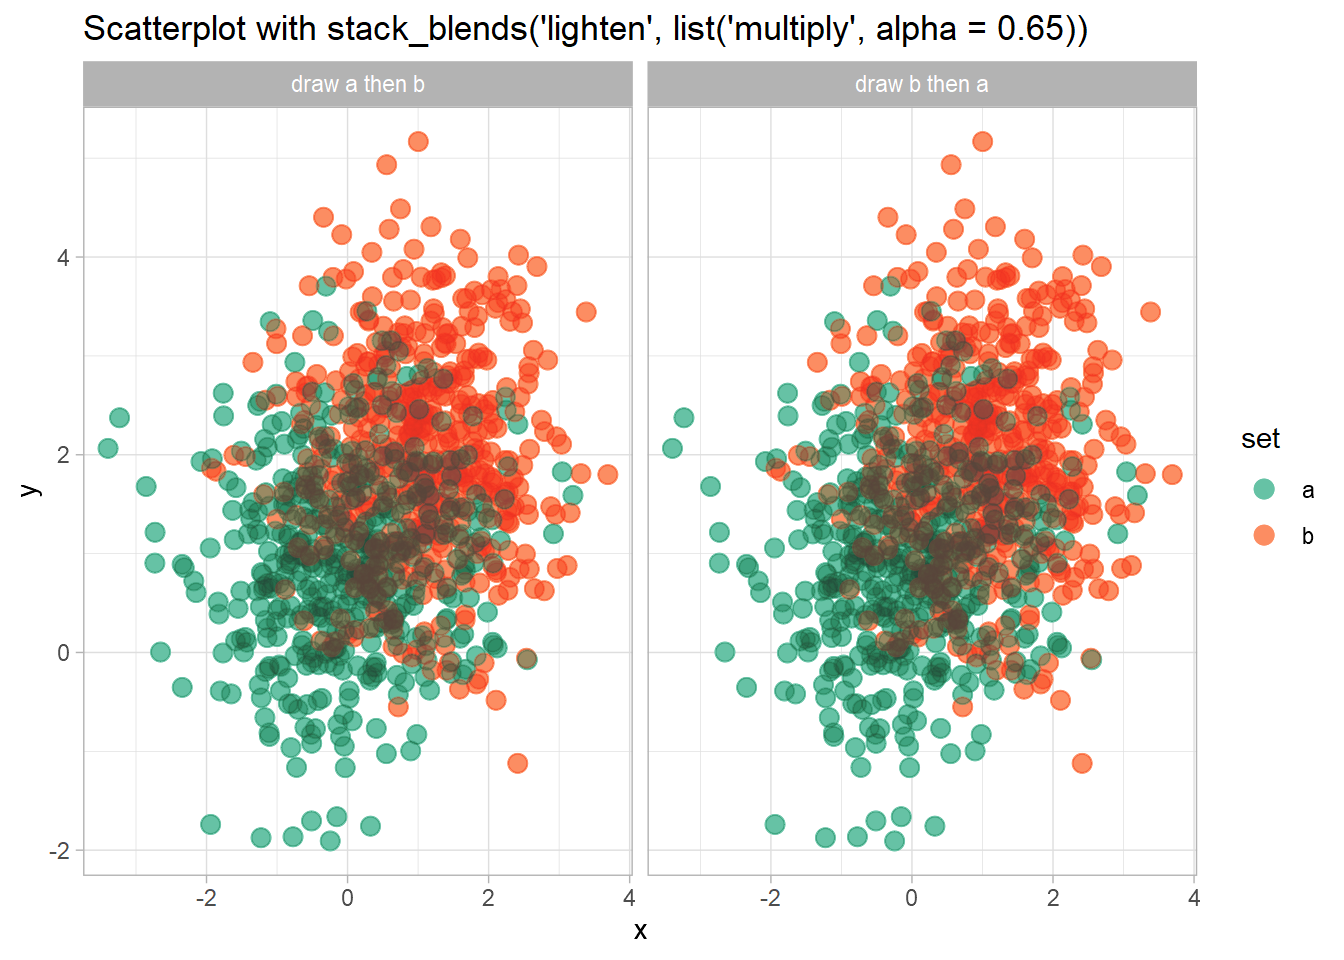
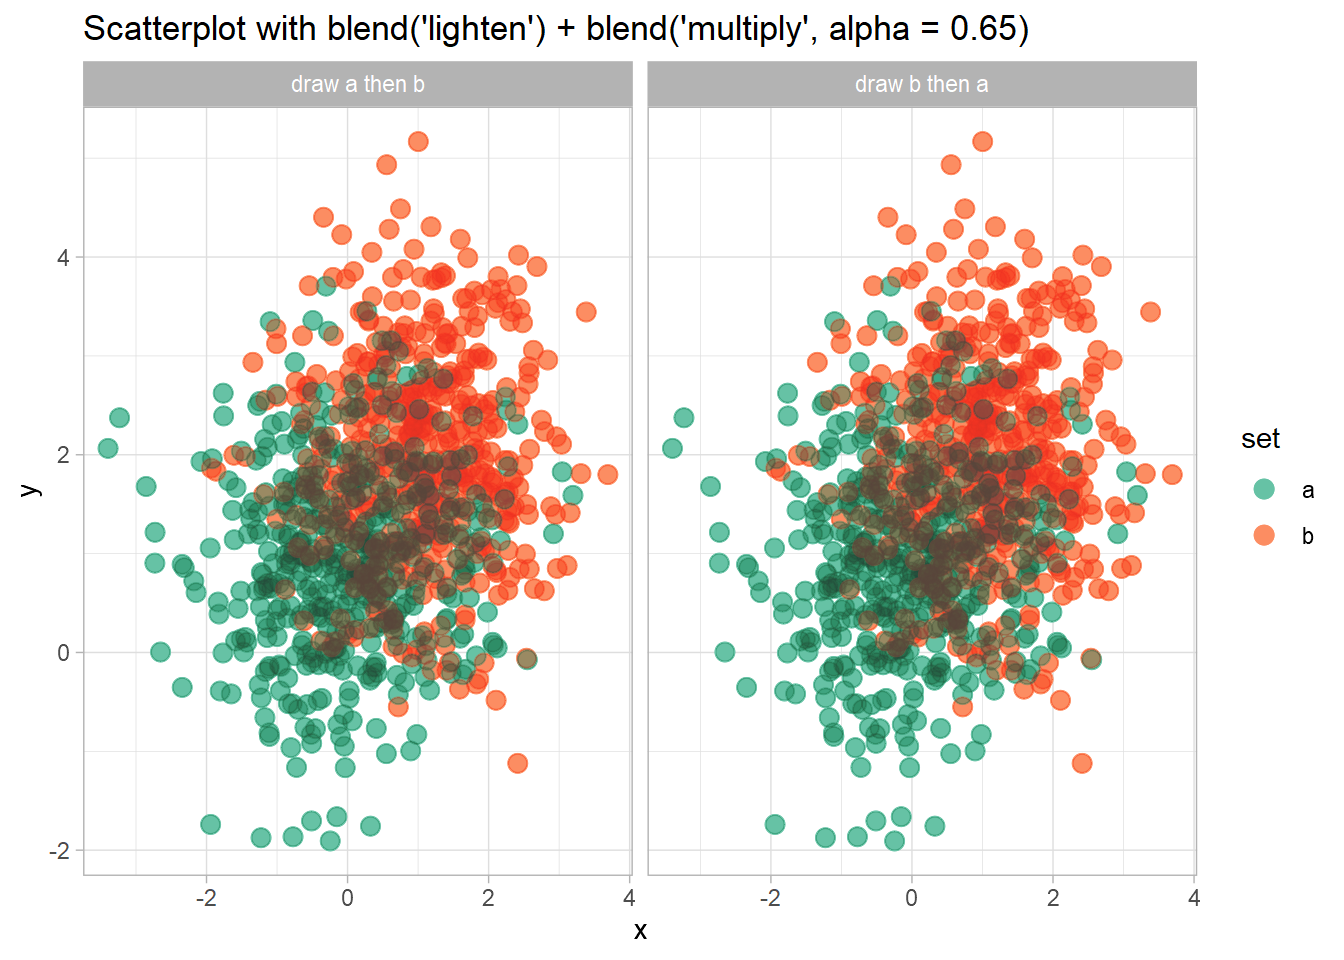
blend_group -> partition

Changed region(s): [[0.25, 0.0, 0.8125, 0.0625]]

diff --git a/README.md b/README.md
@@ -64,13 +64,20 @@ df |>
 <img src="man/figures/README-scatter_noblend-1.png" width="672" />
 
 A *commutative* blend mode, like `"multiply"` or `"darken"`, is one
-potential solution that does not depend on drawing order. We can wrap
-`geom_point()` in a call to `blend()` to achieve this, there are
-currently three approaches:
+potential solution that does not depend on drawing order. We can apply a
+`blend()` operation to geom_point()\` to achieve this. There three ways
+to do this:
 
 -   `blend(geom_point(...), "darken")` (normal function application)
 -   `geom_point(...) |> blend("darken")` (piping)
 -   `geom_point(...) * blend("darken")` (algebraic operations)
+
+Function application and piping are equivalent. **In this case**, all
+three approaches are equivalent. As we will see later, the
+multiplication approach is useful when we want a shorthand for applying
+the same operation to multiple layers in a list without combining those
+layers first (in other words, multiplication of operations over layers
+is *distributive* in an algebraic sense).
 
 ``` r
 df |>
@@ -94,7 +101,7 @@ though then values can get quite dark:
 ``` r
 df |>
   ggplot(aes(x, y, color = set)) +
-  geom_point(size = 3) |> blend("multiply") +
+  geom_point(size = 3) * blend("multiply") +
   scale_color_brewer(palette = "Set2") +
   facet_grid(~ order) +
   ggtitle("Scatterplot with blend('multiply'): a little too dark")
@@ -110,8 +117,8 @@ version on top at an `alpha` of less than 1:
 ``` r
 df |>
   ggplot(aes(x, y, color = set)) +
-  geom_point(size = 3) |> blend("lighten") +
-  geom_point(size = 3) |> blend("multiply", alpha = 0.65) +
+  geom_point(size = 3) * blend("lighten") +
+  geom_point(size = 3) * blend("multiply", alpha = 0.65) +
   scale_color_brewer(palette = "Set2") +
   facet_grid(~ order) +
   ggtitle("Scatterplot with blend('lighten') and blend('multiply', alpha = 0.65)")
@@ -122,20 +129,39 @@ df |>
 Now it’s a little easier to see both overlap and density, and the output
 remains independent of draw order.
 
-Since this pattern may be useful in general, the `stack_blends()`
-function implements it: you pass it a layer and a sequence of lists of
-arguments for `blend()`; `stack_blends()` duplicates the layer, applying
-`blend()` with the provided arguments to each duplicated layer
-separately, then stacks them together. Thus the previous example can be
-written like so:
+It is a little verbose to need to copy out a layer multiple times, as
+in:
+
+``` r
+geom_point(size = 3) * blend("lighten") +
+geom_point(size = 3) * blend("multiply", alpha = 0.65)
+```
+
+Operations and layers in *ggblend* act as a small algebra. Operations
+and sums of operations can be multiplied by layers and lists of layers,
+and those operations are distributed over the layers (This is where `*`
+and `|>` differ: `|>` does not distribute operations like `blend()` over
+layers, which is useful if you want to use a blend to combine multiple
+layers together, rather than applying that blend to each layer
+individually).
+
+For example, we can “factor out” the `geom_point(size = 3)` layer from
+the above expression, yielding this:
+
+``` r
+geom_point(size = 3) * (blend("lighten") + blend("multiply", alpha = 0.65))
+```
+
+Both expressions are equivalent. Thus we can rewrite the previous
+example like so:
 
 ``` r
 df |>
   ggplot(aes(x, y, color = set)) +
-  geom_point(size = 3) |> stack_blends("lighten", blend("multiply", alpha = 0.65)) +
+  geom_point(size = 3) * (blend("lighten") + blend("multiply", alpha = 0.65)) +
   scale_color_brewer(palette = "Set2") +
   facet_grid(~ order) +
-  ggtitle("Scatterplot with stack_blends('lighten', list('multiply', alpha = 0.65))")
+  ggtitle("Scatterplot with blend('lighten') + blend('multiply', alpha = 0.65)")
 ```
 
 <img src="man/figures/README-scatter_lighten_multiply_stacked-1.png" width="672" />
@@ -149,7 +175,39 @@ We can also blend geometries together by passing a list of geometries to
 df |>
   ggplot(aes(x, y, color = set)) +
   list(
-    geom_point(size = 3) |> stack_blends("lighten", blend("multiply", alpha = 0.65)),
+    geom_point(size = 3) * (blend("lighten") + blend("multiply", alpha = 0.65)),
+    geom_vline(xintercept = 0, color = "gray75", size = 1.5),
+    geom_hline(yintercept = 0, color = "gray75", size = 1.5)
+  ) |> blend("hard.light") +
+  scale_color_brewer(palette = "Set2") +
+  facet_grid(~ order) +
+  labs(title = "Blending multiple geometries together")
+```
+
+<img src="man/figures/README-scatter_blend_geom_incorrect-1.png" width="672" />
+
+Whoops!! If you look closely, the blending of the `geom_point()` layers
+appears to have changed. Recall that this expression:
+
+``` r
+geom_point(size = 3) * (blend("lighten") + blend("multiply", alpha = 0.65))
+```
+
+Is equivalent to specifying two separate layers, one with
+`blend("lighten")` and the other with
+`blend("multiply", alpha = 0.65))`. Thus, when you apply
+`|> blend("hard.light")` to the `list()` of layers, it will use a hard
+light blend mode to blend these two layers together, when previously
+they would be blended using the normal (or `"over"`) blend mode.
+
+We can gain back the original appearance by blending these two layers
+together with `|> blend()` prior to applying the hard light blend:
+
+``` r
+df |>
+  ggplot(aes(x, y, color = set)) +
+  list(
+    geom_point(size = 3) * (blend("lighten") + blend("multiply", alpha = 0.65)) |> blend(),
     geom_vline(xintercept = 0, color = "gray75", size = 1.5),
     geom_hline(yintercept = 0, color = "gray75", size = 1.5)
   ) |> blend("hard.light") +
@@ -159,27 +217,6 @@ df |>
 ```
 
 <img src="man/figures/README-scatter_blend_geom-1.png" width="672" />
-
-## Algebraic syntax
-
-An experimental algebraic syntax for combining and applying blends
-replaces the function application `|>` with `*` and stacking blends with
-`^`. For example:
-
-``` r
-df |>
-  ggplot(aes(x, y, color = set)) +
-  list(
-    geom_point(size = 3) * blend("lighten") ^ blend("multiply", alpha = 0.65),
-    geom_vline(xintercept = 0, color = "gray75", size = 1.5),
-    geom_hline(yintercept = 0, color = "gray75", size = 1.5)
-  ) * blend("hard.light") +
-  scale_color_brewer(palette = "Set2") +
-  facet_grid(~ order) +
-  labs(title = "Blending multiple geometries together, algebraically")
-```
-
-<img src="man/figures/README-scatter_blend_algebraic-1.png" width="672" />
 
 ## Blending groups within one geometry
 
@@ -284,23 +321,43 @@ predictions |>
 Notice the overlap of the orange (`cyl = 6`) and purple (`cyl = 8`)
 lines.
 
-If we add a `blend_group = cyl` aesthetic mapping, we can blend the
+If we add a `partition = cyl` aesthetic mapping, we can blend the
 geometries for the different levels of `cyl` together with a `blend()`
-call around `ggdist::stat_lineribbon()`:
+call around `ggdist::stat_lineribbon()`.
+
+There are many ways we could add the partition to the plot:
+
+1.  Add `partition = cyl` to the existing `aes(...)` call. However, this
+    leaves the partitioning information far from the call to `blend()`,
+    so the relationship between them is less clear.
+2.  Add `aes(partition = cyl)` to the `stat_lineribbon(...)` call. This
+    is a more localized change (better!), but will raise a warning if
+    `stat_lineribbon()` itself does not recognized the `partition`
+    aesthetic.
+3.  Add `|> adjust(aes(partition = cyl))` after `stat_lineribbon(...)`
+    to add the `partition` aesthetic to it (this will bypass the
+    warning).
+4.  Add `|> partition(vars(cyl))` after `stat_lineribbon(...)` to add
+    the `partition` aesthetic. This is an alias for the `adjust()`
+    approach that is intended to be clearer. It takes a specification
+    for a partition that is similar to `facet_wrap()`: either a
+    one-sided formula or a call to `vars()`.
+
+Let’s try the fourth approach:
 
 ``` r
 predictions |>
-  ggplot(aes(x = hp, fill = ordered(cyl), color = ordered(cyl), blend_group = cyl)) +
+  ggplot(aes(x = hp, fill = ordered(cyl), color = ordered(cyl))) +
   ggdist::stat_lineribbon(
     aes(ydist = mu_hat, fill_ramp = stat(.width)),
     .width = ppoints(40)
-  ) |> blend("multiply") +
+  ) |> partition(vars(cyl)) |> blend("multiply") +
   geom_point(aes(y = mpg), data = mtcars) +
   scale_fill_brewer(palette = "Set2") +
   scale_color_brewer(palette = "Dark2") +
   ggdist::scale_fill_ramp_continuous(range = c(1, 0)) +
   labs(
-    title = "Overlapping lineribbons with aes(blend_group = cyl) and blend('multiply')", 
+    title = "Overlapping lineribbons with aes(partition = cyl) and blend('multiply')", 
     color = "cyl", fill = "cyl", y = "mpg"
   ) +
   ggdist::theme_ggdist()
@@ -313,7 +370,7 @@ Now the overlapping ribbons are blended together.
 ## Compatibility with other packages
 
 In theory *ggblend* should be compatible with other packages, though in
-more complex cases (blending lists of geoms or using the `blend_group`
+more complex cases (blending lists of geoms or using the `partition`
 aesthetic) it is possible it may fail, as these features are a bit more
 hackish.
 
@@ -325,7 +382,7 @@ documentation](https://gganimate.com/):
 library(gganimate)
 library(gapminder)
 
-p = ggplot(gapminder, aes(gdpPercap, lifeExp, size = pop, color = continent, blend_group = continent)) +
+p = ggplot(gapminder, aes(gdpPercap, lifeExp, size = pop, color = continent, partition = continent)) +
   list(
     geom_point(show.legend = c(size = FALSE)) |> blend("multiply"),
     geom_hline(yintercept = 70, size = 2.5, color = "gray75")
